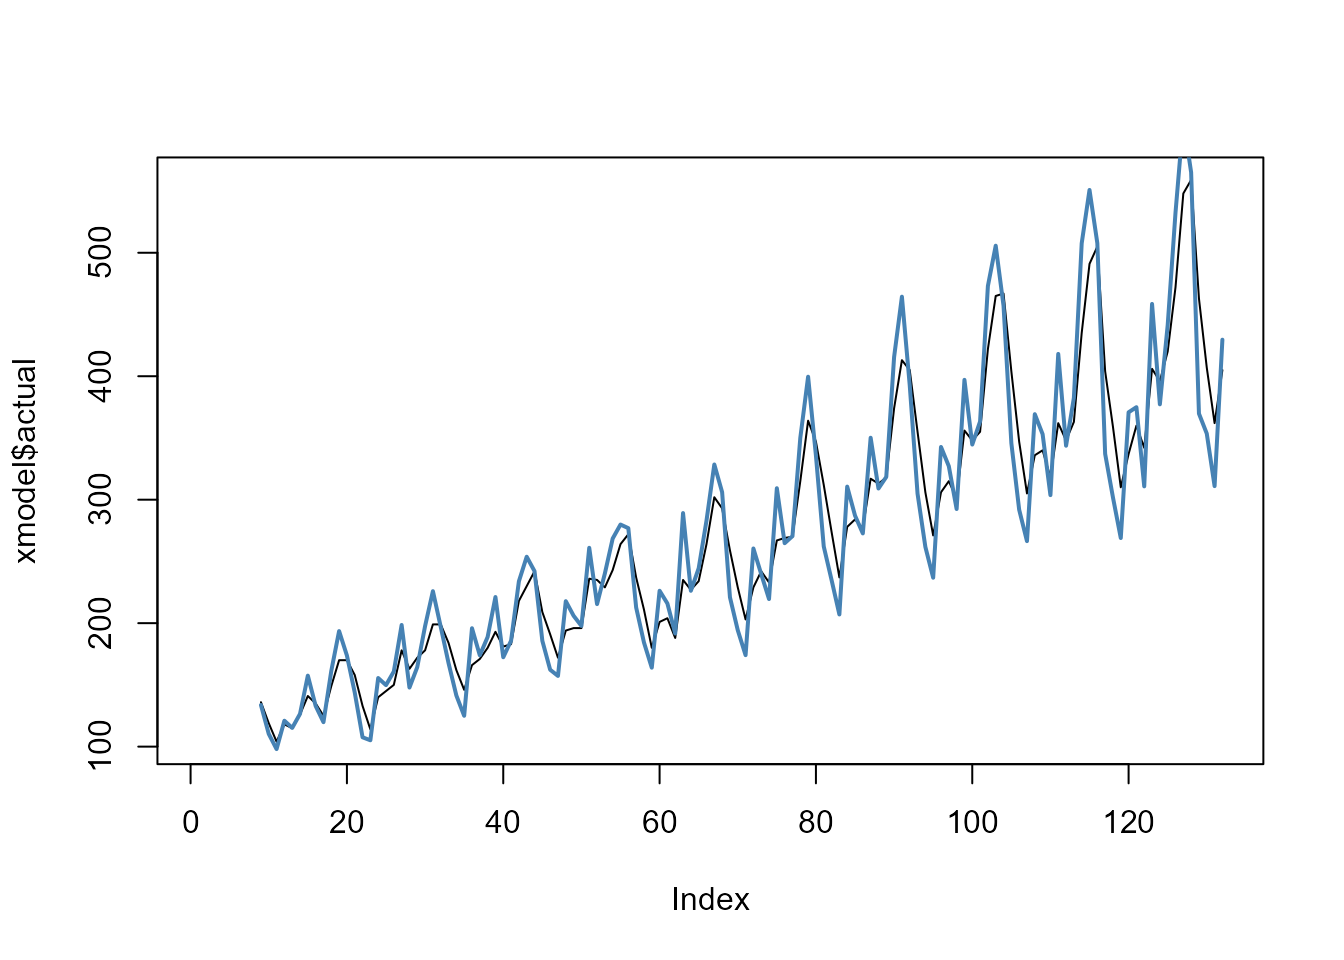
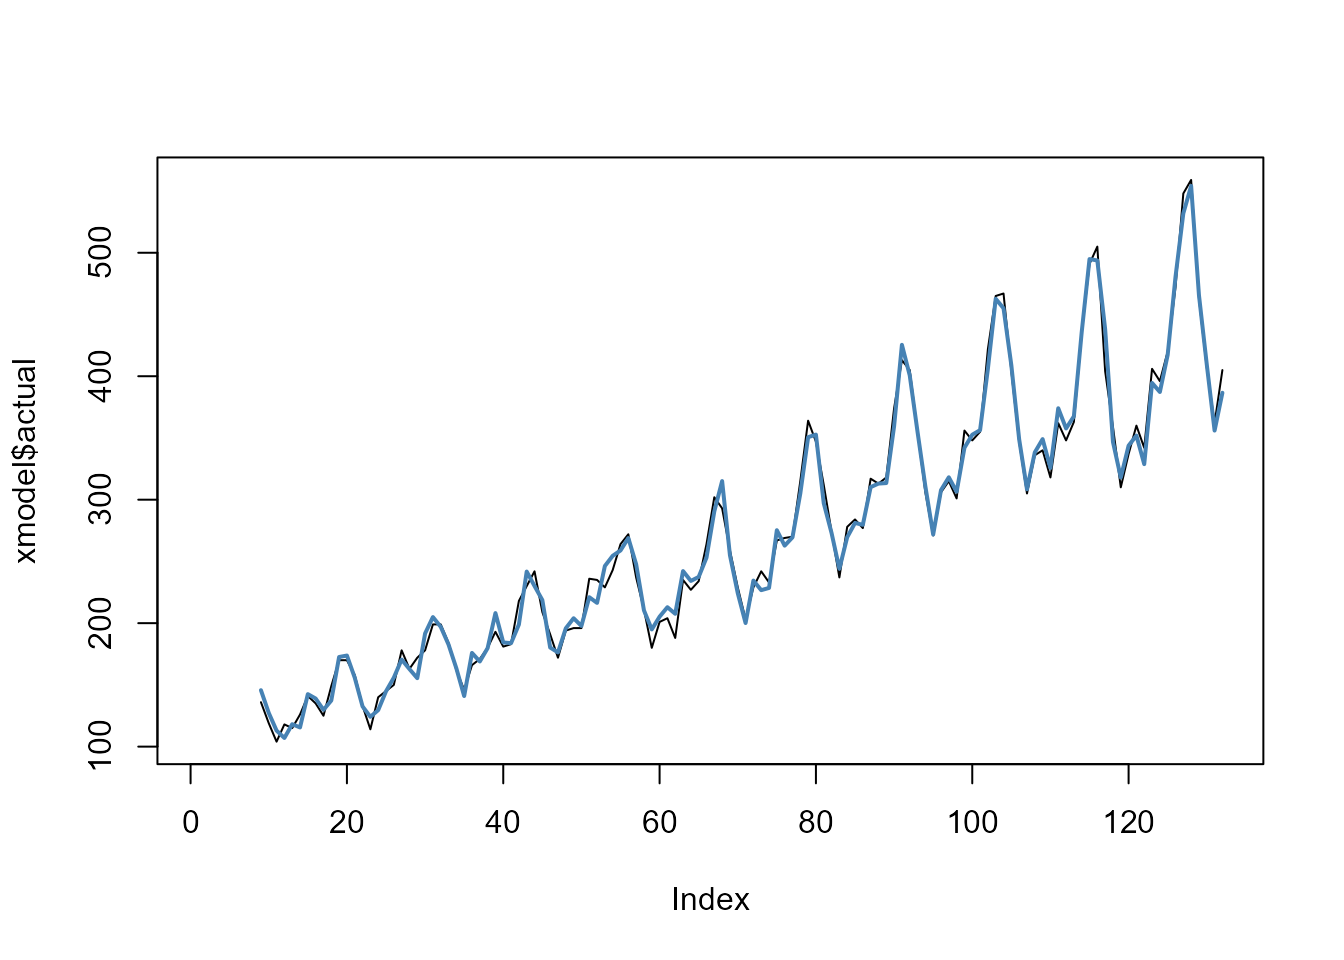
Update website

Changed region(s): [[0.1875, 0.1562, 0.9375, 0.7812], [0.3438, 0.7188, 0.375, 0.75]]

diff --git a/docs/articles/vignette_01_baseR.html b/docs/articles/vignette_01_baseR.html
@@ -273,25 +273,23 @@ the future. The output <code>xfcst</code> is a list of class
 <span><span class="co">#&gt; [127] 548 559 463 407 362 405</span></span>
 <span><span class="co">#&gt; </span></span>
 <span><span class="co">#&gt; $fitted</span></span>
-<span><span class="co">#&gt;   [1]        NA        NA        NA        NA        NA        NA        NA</span></span>
-<span><span class="co">#&gt;   [8]        NA 133.71643 110.30808  97.99022 121.00545 115.14693 126.53016</span></span>
-<span><span class="co">#&gt;  [15] 157.52189 132.94333 119.78278 161.34975 193.59773 173.76932 143.85410</span></span>
-<span><span class="co">#&gt;  [22] 107.56646 105.13810 155.56655 149.80988 160.86024 198.54238 147.81409</span></span>
-<span><span class="co">#&gt;  [29] 164.43319 197.62710 225.94828 197.05461 167.66886 141.42018 124.95530</span></span>
-<span><span class="co">#&gt;  [36] 195.90012 173.94581 188.78576 221.17353 172.36502 185.81144 233.87344</span></span>
-<span><span class="co">#&gt;  [43] 253.80249 242.09268 185.71449 162.28386 157.26375 217.82387 205.98666</span></span>
-<span><span class="co">#&gt;  [50] 197.74646 261.03987 215.40821 240.28469 268.54261 279.86910 276.93788</span></span>
-<span><span class="co">#&gt;  [57] 212.74332 184.36646 163.91128 226.25235 215.92186 191.58228 289.17804</span></span>
-<span><span class="co">#&gt;  [64] 226.18730 244.44391 283.04411 328.54638 306.08284 220.99874 194.32638</span></span>
-<span><span class="co">#&gt;  [71] 174.07617 260.50090 239.72264 219.51924 309.30297 264.75397 270.50592</span></span>
-<span><span class="co">#&gt;  [78] 350.00199 399.61293 335.73425 262.16156 235.00641 207.03053 310.60081</span></span>
-<span><span class="co">#&gt;  [85] 287.16356 272.65522 350.18168 309.04424 318.45190 415.49340 464.43369</span></span>
-<span><span class="co">#&gt;  [92] 392.70558 304.88560 261.77706 236.78694 342.73360 327.14560 292.43738</span></span>
-<span><span class="co">#&gt;  [99] 397.08165 344.62531 363.33019 473.10273 505.71933 457.04417 345.84712</span></span>
-<span><span class="co">#&gt; [106] 291.90008 266.42954 369.29088 353.07476 303.67445 418.08114 343.69856</span></span>
-<span><span class="co">#&gt; [113] 382.50629 507.63837 550.88035 507.75092 337.10651 301.79449 268.94196</span></span>
-<span><span class="co">#&gt; [120] 370.79001 374.94003 310.78017 458.56659 377.22597 441.29224 532.46027</span></span>
-<span><span class="co">#&gt; [127] 607.88392 565.09347 369.72182 353.55294 310.97893 429.61063</span></span>
+<span><span class="co">#&gt;   [1]       NA       NA       NA       NA       NA       NA       NA       NA</span></span>
+<span><span class="co">#&gt;   [9] 145.7164 127.3081 112.9902 107.0054 118.1469 115.5302 142.5219 138.9433</span></span>
+<span><span class="co">#&gt;  [17] 129.7828 137.3497 172.5977 173.7693 155.8541 132.5665 124.1381 129.5666</span></span>
+<span><span class="co">#&gt;  [25] 144.8099 155.8602 170.5424 162.8141 155.4332 191.6271 204.9483 197.0546</span></span>
+<span><span class="co">#&gt;  [33] 182.6689 163.4202 140.9553 175.9001 168.9458 179.7858 208.1735 184.3650</span></span>
+<span><span class="co">#&gt;  [41] 183.8114 198.8734 241.8025 230.0927 218.7145 180.2839 176.2637 195.8239</span></span>
+<span><span class="co">#&gt;  [49] 203.9867 197.7465 221.0399 216.4082 246.2847 254.5426 258.8691 268.9379</span></span>
+<span><span class="co">#&gt;  [57] 247.7433 210.3665 194.9113 205.2524 212.9219 207.5823 242.1780 234.1873</span></span>
+<span><span class="co">#&gt;  [65] 237.4439 253.0441 290.5464 315.0828 254.9987 224.3264 200.0762 234.5009</span></span>
+<span><span class="co">#&gt;  [73] 226.7226 228.5192 275.3030 262.7540 269.5059 305.0020 350.6129 352.7342</span></span>
+<span><span class="co">#&gt;  [81] 297.1616 273.0064 244.0305 269.6008 281.1636 279.6552 310.1817 313.0442</span></span>
+<span><span class="co">#&gt;  [89] 313.4519 359.4934 425.4337 400.7056 354.8856 310.7771 271.7869 307.7336</span></span>
+<span><span class="co">#&gt;  [97] 318.1456 306.4374 342.0817 352.6253 356.3302 406.1027 462.7193 455.0442</span></span>
+<span><span class="co">#&gt; [105] 408.8471 348.9001 308.4295 338.2909 349.0748 325.6744 374.0811 357.6986</span></span>
+<span><span class="co">#&gt; [113] 367.5063 435.6384 494.8804 493.7509 438.1065 346.7945 317.9420 343.7900</span></span>
+<span><span class="co">#&gt; [121] 351.9400 328.7802 394.5666 387.2260 417.2922 480.4603 531.8839 554.0935</span></span>
+<span><span class="co">#&gt; [129] 465.7218 409.5529 355.9789 386.6106</span></span>
 <span><span class="co">#&gt; </span></span>
 <span><span class="co">#&gt; $n_ahead</span></span>
 <span><span class="co">#&gt; [1] 12</span></span>
